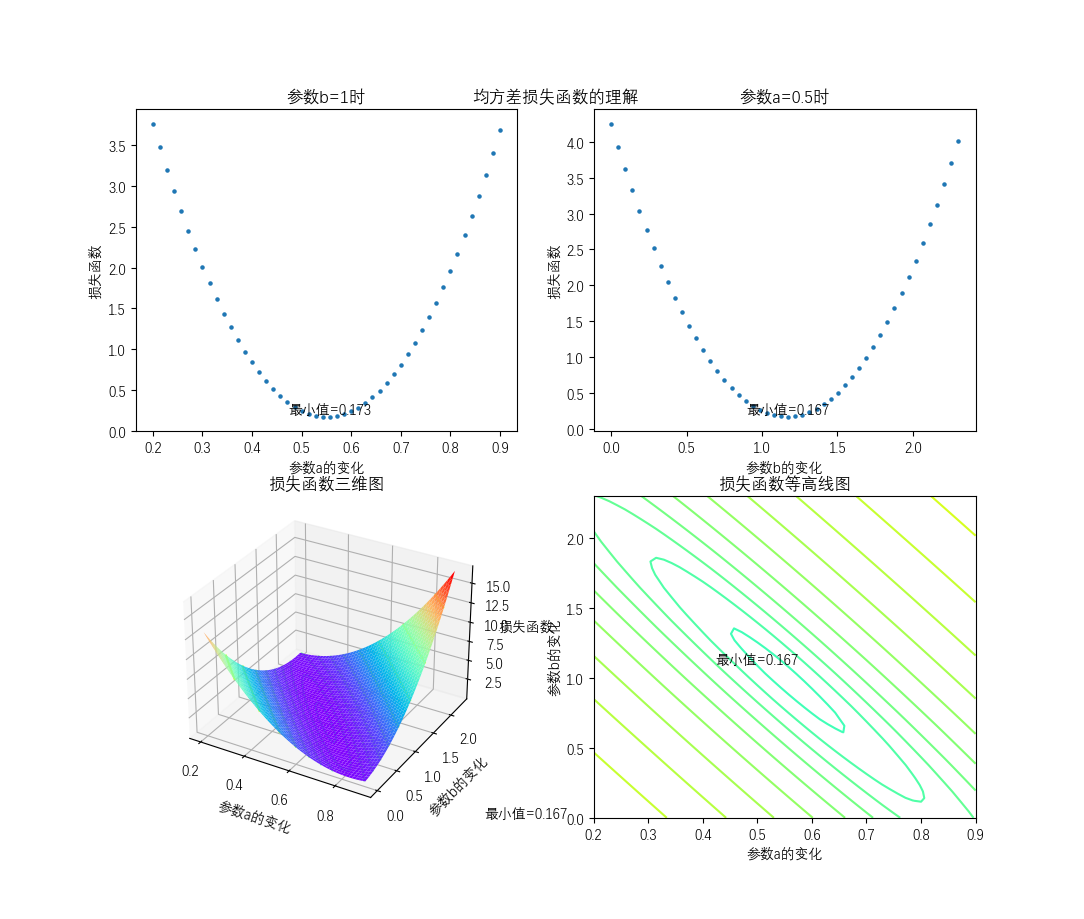
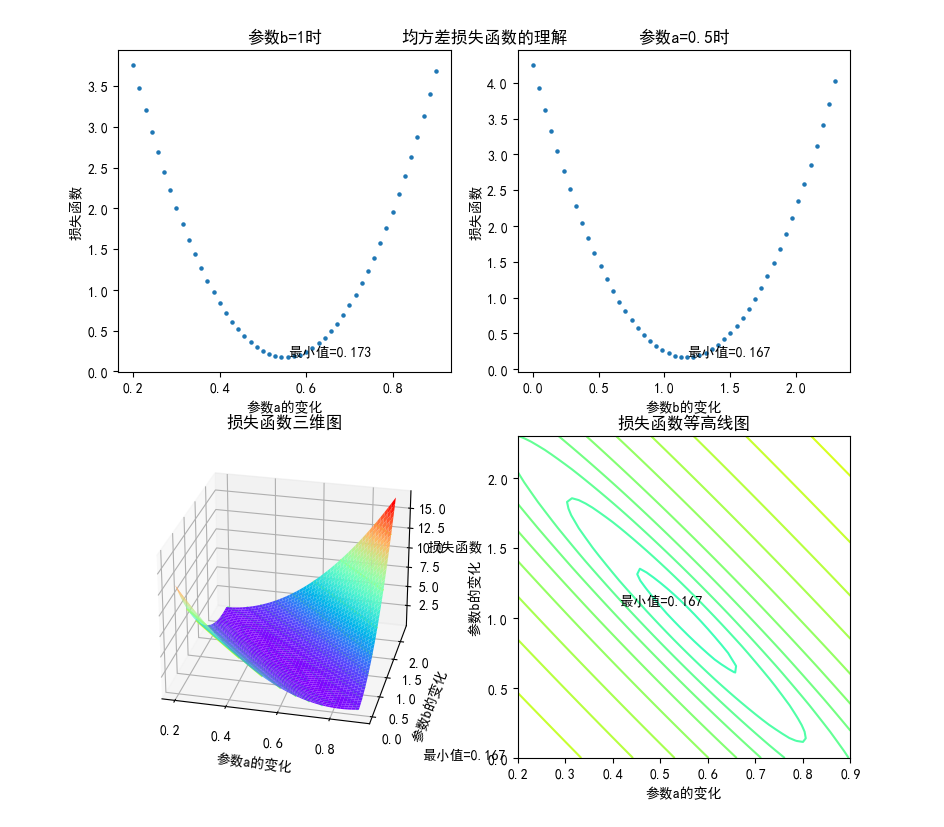
update

diff --git a/基础教程/A4-经典机器学习算法（更新中）/第1步 回归算法/src/1-3-LossFunction.py b/基础教程/A4-经典机器学习算法（更新中）/第1步 回归算法/src/1-3-LossFunction.py
@@ -1,0 +1,120 @@
+# Copyright (c) Microsoft. All rights reserved.
+# Licensed under the MIT license. See LICENSE file in the project root for full license information.
+
+import numpy as np
+from pathlib import Path
+import matplotlib.pyplot as plt
+from mpl_toolkits.mplot3d import Axes3D
+from matplotlib.colors import LogNorm
+import matplotlib as mpl
+
+def mse(Y, Y_hat):
+    return np.sum((Y-Y_hat) * (Y-Y_hat))
+
+# 参数a固定为0.5，遍历参数b=(start=0, stop=2.3, num=50)
+def traversal_b(X,Y,scope_b):
+    loss_b = []
+    value_b = []
+    for b in np.linspace(start=scope_b[0], stop=scope_b[1], num=scope_b[2]):
+        Y_hat = 0.5 * X + b     # a值固定为0.5
+        loss = mse(Y, Y_hat)    # 计算均方差损失函数
+        loss_b.append(loss)     # 保存好便于后面绘图
+        value_b.append(b)       # 保存好便于后面绘图
+    return value_b, loss_b
+
+# 参数b固定为1，遍历参数a=(start=0.2, stop=0.9, num=50)
+def traversal_a(X,Y,scope_a):
+    loss_a = []
+    value_a = []
+    for a in np.linspace(start=scope_a[0], stop=scope_a[1], num=scope_a[2]):
+        Y_hat = a * X + 1       # b值固定为1
+        loss = mse(Y, Y_hat)    # 计算均方差损失函数
+        loss_a.append(loss)     # 保存好便于后面绘图
+        value_a.append(a)       # 保存好便于后面绘图
+    return value_a, loss_a
+
+# 遍历参数a=[0.2, 0.9, 50] 同时 遍历参数b=[0, 2.3, 50]
+def traversal_ab(X, Y, value_a, value_b):
+    R = np.zeros((len(value_a), len(value_b)))
+    # 遍历 a 和 b 的组合
+    for i in range(len(value_a)):
+        for j in range(len(value_b)):
+            Y_hat = value_a[i] * X + value_b[j] # 计算回归值
+            loss = mse(Y, Y_hat)                # 计算损失函数
+            R[i,j] = loss                       # 保存好便于后面绘图
+    return R
+
+# 获得最小值的坐标
+def get_min_pos(value, loss):
+    min_value = min(loss)
+    idx = loss.index(min_value)
+    x = value[idx]
+    y = value[idx]
+    return min_value, x, y
+
+# 在等高线图上获得最小值的坐标
+def get_min_pos_3d(value_a, value_b, R):
+    min_value = np.min(R)
+    pos = np.argmin(R)
+    x = value_a[pos // R.shape[0]]
+    y = value_b[pos % R.shape[0]]
+    return min_value, x, y
+
+def show_sample(value_a, loss_a, value_b, loss_b, R):
+    mpl.rcParams['font.sans-serif'] = ['SimHei']  
+    mpl.rcParams['axes.unicode_minus']=False
+    
+    fig = plt.figure()
+    plt.title(u"均方差损失函数的理解")
+    plt.axis('off')
+
+    # 绘制左上视图
+    ax = fig.add_subplot(221)
+    ax.scatter(value_a, loss_a, s=5)
+    ax.set_title(u"参数b=1时")
+    ax.set_xlabel(u"参数a的变化")
+    ax.set_ylabel(u"损失函数")
+    min_value, x, y = get_min_pos(value_a, loss_a)
+    ax.text(x,y,str.format("最小值={0:.3f}",min_value), ha='left', va='bottom')
+
+    # 绘制右上视图
+    ax = fig.add_subplot(222)
+    ax.scatter(value_b, loss_b, s=5)
+    ax.set_title(u"参数a=0.5时")
+    ax.set_xlabel(u"参数b的变化")
+    ax.set_ylabel(u"损失函数")
+    min_value, x, y = get_min_pos(value_b, loss_b)
+    ax.text(x,y,str.format("最小值={0:.3f}",min_value), ha='left', va='bottom')
+
+    # 绘制左下视图
+    ax = fig.add_subplot(223, projection="3d")
+    P,Q = np.meshgrid(value_a, value_b)
+    ax.set_title(u"损失函数三维图")
+    ax.set_xlabel(u"参数a的变化")
+    ax.set_ylabel(u"参数b的变化")
+    ax.set_zlabel(u"损失函数")
+    ax.plot_surface(P, Q, R, cmap='rainbow')
+    plt.contour(P,Q,R,levels=np.logspace(-5, 5, 50), norm=LogNorm(), cmap=plt.cm.jet)
+
+    # 绘制右下视图
+    ax = fig.add_subplot(224)
+    ax.set_title(u"损失函数等高线图")
+    ax.set_xlabel(u"参数a的变化")
+    ax.set_ylabel(u"参数b的变化")
+    plt.contour(P,Q,R,levels=np.logspace(-5, 5, 50), norm=LogNorm(), cmap=plt.cm.jet)
+    ax.text(0,0,str.format("最小值={0:.3f}",np.min(R)))
+    min_value, x, y = get_min_pos_3d(value_a, value_b, R)
+    ax.text(x,y,str.format("最小值={0:.3f}",min_value), ha='center', va='top')
+
+    plt.show()
+
+if __name__ == '__main__':
+    X = np.array([2,3,4])
+    Y = np.array([2,3,3])
+    scope_b = (0,2.3,50)
+    value_b, loss_b = traversal_b(X, Y, scope_b)
+    scope_a = (0.2,0.9,50)
+    value_a, loss_a = traversal_a(X, Y, scope_a)
+    R = traversal_ab(X, Y, value_a, value_b)
+
+    show_sample(value_a, loss_a, value_b, loss_b, R)

diff --git a/基础教程/A4-经典机器学习算法（更新中）/第1步 回归算法/src/1-4-LeastSquare.py b/基础教程/A4-经典机器学习算法（更新中）/第1步 回归算法/src/1-4-LeastSquare.py
@@ -12,7 +12,7 @@ def generate_file_path(file_name):
     file_path = os.path.join(curr_dir, file_name)
     return file_path
 
-# 公式 1.2.5
+# 公式 1.3.8
 def least_square_1(X,Y):
     n = X.shape[0]
     # a_hat

diff --git a/基础教程/A4-经典机器学习算法（更新中）/第1步 回归算法/01.3 最小二乘法.md b/基础教程/A4-经典机器学习算法（更新中）/第1步 回归算法/01.3 最小二乘法.md
@@ -2,11 +2,11 @@
 
 ### 如何找到最好的回归结果
 
-在上个小节中，我们找到了比较好的回归结果，但是它是不是最好的结果呢？
+在上个小节中，我们可以比较两条线的回归效果了，**但是如何判定它是不是最好的结果呢？**
 
 我们可以从接着损失函数入手来解决这个问题，来理解最小二乘法的原理。1806 年，法国科学家勒让德发明了最小二乘法，或叫做最小平方法；1829年，高斯提供了最小二乘法的优化效果强于其他方法的证明。
 
-图 1.3.1 是均方差损失函数在一元线性回归问题上的表现，使用的原始数据依然是图 1.1.2 中的三个样本。
+图 1.3.1 是均方差损失函数在一元线性回归问题上的表现，使用的原始数据依然是图 1.1.2 中的三个样本。这些图都是用代码生成的，请运行 1-3-LossFunction.py 来验证。
 
 <img src="./images/1-3-1.png" />
 <center>图 1.3.1 均方差损失函数的理解</center>
@@ -15,45 +15,53 @@
    
     当参数 $b$ 固定为 1 时，让 $a$ 从 0.2 到 0.9 之间等距变化，取 50 个 $a$ 的备选值，导致的损失函数的变化，是一条 U 型二次曲线。曲线底部最小值为0.173。
 
+    实现代码如下：
 ```Python
-def a(X,Y):
-    Loss = []
-    A = []
-    for a in np.linspace(start=0.2, stop=0.9, num=50):
-        Y_hat = a * X + 1   # b值固定为1
-        loss = mse(Y, Y_hat)
-        Loss.append(loss)
-        A.append(a)
-    return A, Loss
+# 参数b固定为1，遍历参数a=(start=0.2, stop=0.9, num=50)
+def traversal_a(X,Y,scope_a):
+    loss_a = []
+    value_a = []
+    for a in np.linspace(start=scope_a[0], stop=scope_a[1], num=scope_a[2]):
+        Y_hat = a * X + 1       # b值固定为1
+        loss = mse(Y, Y_hat)    # 计算均方差损失函数
+        loss_a.append(loss)     # 保存好便于后面绘图
+        value_a.append(a)       # 保存好便于后面绘图
+    return value_a, loss_a
 ```
 
 - 右上子图
   
   当参数 $a$ 固定为 0.5 时，让 $b$ 从 0 到 2.3 之间等距变化，取 50 个 $b$ 的备选值，导致的损失函数的变化，也是一条 U 型二次曲线。曲线底部最小值为0.167。
   
+  实现代码如下：
 ```Python
-def b(X,Y):
-    Loss = []
-    B = []
-    for b in np.linspace(start=0, stop=2.3, num=50):
+# 参数a固定为0.5，遍历参数b=(start=0, stop=2.3, num=50)
+def traversal_b(X,Y,scope_b):
+    loss_b = []
+    value_b = []
+    for b in np.linspace(start=scope_b[0], stop=scope_b[1], num=scope_b[2]):
         Y_hat = 0.5 * X + b     # a值固定为0.5
-        loss = mse(Y, Y_hat)
-        Loss.append(loss)
-        B.append(b)
-    return B, Loss
+        loss = mse(Y, Y_hat)    # 计算均方差损失函数
+        loss_b.append(loss)     # 保存好便于后面绘图
+        value_b.append(b)       # 保存好便于后面绘图
+    return value_b, loss_b
 ```
 
 - 左下子图
   
   当参数 a、b 同时变化导致的损失函数的变化，是一个中间低四周高的曲面，从目前这个角度来看，两侧坡度变化较快，前后坡度变化较慢。
-
+  
+  实现代码如下：
 ```Python
-def ab(A, B, X, Y):
-    R = np.zeros((len(A), len(B)))
-    for i in range(len(A)):
-        for j in range(len(B)):
-            Y_hat = A[i] * X + B[j] # 取 a,b 的50x50的不同组合
-            R[i,j] = mse(Y, Y_hat)
+# 遍历参数a=[0.2, 0.9, 50] 同时 遍历参数b=[0, 2.3, 50]
+def traversal_ab(X, Y, value_a, value_b):
+    R = np.zeros((len(value_a), len(value_b)))
+    # 遍历 a 和 b 的组合
+    for i in range(len(value_a)):
+        for j in range(len(value_b)):
+            Y_hat = value_a[i] * X + value_b[j] # 计算回归值
+            loss = mse(Y, Y_hat)                # 计算损失函数
+            R[i,j] = loss                       # 保存好便于后面绘图
     return R
 ```
 
@@ -61,12 +69,15 @@ def ab(A, B, X, Y):
   
   是左下子图在底平面上的投影，用等高线表示损失函数的数值。等高线中心最小值为0.167。
 
-到此，我们可以认为均方差损失函数是一个凸函数。根据微分极值定理，对 $J$ 分别求 $a$ 和 $b$ 偏导，然后令导数公式为 0，就可以得到最佳的 $\hat a$ 和 $\hat b$，使得 $J$ 的值最小，即总体误差最小。针对本例，最小损失函数值为 0.167 左右。
+**到此，我们可以认为均方差损失函数是一个凸函数。根据微分极值定理，对 $J$ 分别求 $a$ 和 $b$ 偏导，然后令导数公式为 0，就可以得到最佳的 $\hat a$ 和 $\hat b$，使得 $J$ 的值最小，即总体误差最小。**
+
+针对本例，最小损失函数值为 0.167 左右。
+
+图 1.3.2 说明了微分极值的原理：$p_2$ 点为极小值点，其微分（切线）结果为 0；$p_1$ 和 $p_3$ 的微分结果分别小于 0 和 大于 0，所以不是极值点。
 
 <img src="./images/1-3-2.png" />
 <center>图 1.3.2 对损失函数求最小值的方法</center>
 
-图 1.3.2 说明了微分极值的原理：$p_2$ 点为极小值点，其微分（切线）结果为 0；$p_1$ 和 $p_3$ 的微分结果分别小于 0 和 大于 0，所以不是极值点。
 
 ### 实例化推导
 
@@ -170,4 +181,12 @@ $$
 
 公式推导详见 1.5 小节。
 
-下面我们用一个数据集来验证最小二乘法的效果。
+下一节我们用一个数据集来验证最小二乘法的效果。
+
+
+### 思考与练习
+
+1. 运行 1-3-LossFunction.py 来获得直观结果。
+2. 图 1.3.1 左上子图的 U 型损失函数值，为什么最小值只有 0.173，而不是 0.167 ?
+3. 手工计算方程组 1.3.1，以深刻理解算法原理。
+4. 推导公式 1.3.7，来获得公式 1.3.8。

diff --git a/基础教程/A4-经典机器学习算法（更新中）/第1步 回归算法/01.4 编程验证.md b/基础教程/A4-经典机器学习算法（更新中）/第1步 回归算法/01.4 编程验证.md
@@ -35,7 +35,7 @@ def generate_samples_1(a, b, m):
 ```Python
     X = np.random.random(size=(m, 1))
 ```
-是在 $[0,1)$ 之间均匀分布生成了 $m$ 个随机值，这与实际情况不符。
+是在 $[0,1)$ 之间均匀分布生成了 $m$ 个随机值，这与实际情况不符，应该使用 np.random.normal() 函数。
 
 2. 关于 $\boldsymbol{Y}$ 的生成方法
 
@@ -54,8 +54,7 @@ def generate_samples_2(a, b, m):
         Y[i,0] = a * X[i,0] + b + epsilon
     return X,Y
 ```
-
-在生成数据后，我们可以取出前几行浏览一下，得到表1.4.1，并用 matplotlib 库来做一下可视化，得到图1.4.1。
+运行代码 1-4-GenerateSamples.py，在生成数据后，保存到当前目录 1-0-data.csv。然后我们可以取出前几行浏览一下，得到表1.4.1，并用 matplotlib 库来做一下可视化，得到图1.4.1。
 
 表 1.4.1
 
@@ -81,9 +80,11 @@ def generate_samples_2(a, b, m):
 运行代码，如果中文无法显示的话，需要升级到最新版的 matplotlib 包。
 
 
-### 代码实现
+### 验证最小二乘算法
 
-下面用代码实现一下。由于 $\hat{b}$ 依赖于 $\hat{a}$，所以我们先计算 $\hat{a}$：
+下面用代码实现一下最小二乘法。
+
+根据公式 1.3.8，由于 $\hat{b}$ 依赖于 $\hat{a}$，所以我们先计算 $\hat{a}$：
 
 ```Python
 # 公式 1.3.8
@@ -100,7 +101,7 @@ def least_square_1(X,Y):
 
 其中 np.sum(X\*Y)，相当于公式中的 $\sum\limits_{i=1}^n x_i y_i$，由于 $\boldsymbol{X}$ 和 $\boldsymbol{Y}$ 都是（200x1）的数组，所以 $\boldsymbol{X}*\boldsymbol{Y}$ 会按元素相乘，得到一个新的（200x1）的数组，然后求和。
 
-最后得到的结果是：
+运行代码 1-4-LeasstSquare.py，最后得到的结果是：
 
 ```
 a_hat=0.5066, b_hat=0.9921
@@ -112,9 +113,11 @@ a_hat=0.5066, b_hat=0.9921
 
 ### 计算均方差
 
-还记得我们在制作数据集时设置的参数值吗？$a=0.5$，$b=1$。由于在制作样本数据集时有 $\varepsilon$ 的存在，所以最后估计出来的结果 $\hat a=0.5066...$，$\hat b=0.9921...$，非常接近实验预设值。
+还记得我们在制作数据集时设置的参数值吗？$a=0.5$，$b=1$。估计出来的结果 $\hat a=0.5066...$，$\hat b=0.9921...$，非常接近实验预设值。
 
-可能会有人有疑问，为什么没有得到 $a=0.5、b=1$ 的解，而是得到了一个近似解？那我们就来看一下 $y=0.5066x+0.9921$ 和 $y=0.5x+1$ 的损失函数值分别是多少吧。
+可能会有人有疑问，为什么没有得到 $a=0.5、b=1$ 的解，而是得到了一个近似解？这是由于在制作样本数据集时有 $\varepsilon$ 的存在，加入了噪音（方差、偏差），使得实际的参数值已经偏离了预设的 $a=0.5、b=1$。
+
+那我们就来看一下 $y=0.5066x+0.9921$ 和 $y=0.5x+1$ 的损失函数值分别是多少吧。
 
 ```Python
 # 计算均方差
@@ -139,5 +142,9 @@ if __name__ == '__main__':
 J1=0.002558, J2=0.002580
 ```
 
-可以看到 $J_1 < J_2$，说明最小二乘法估算出的参数值更准确一些。这是由于原始数据中加入了噪音（方差、偏差），使得实际的参数值已经偏离了预设的 $a=0.5、b=1$。
+可以看到 $J_1 < J_2$，说明最小二乘法估算出的参数值更准确一些。
 
+### 思考与练习
+
+1. 运行代码 1-4-GenerateSamples.py
+2. 运行代码 1-4-LeastSquare.py
